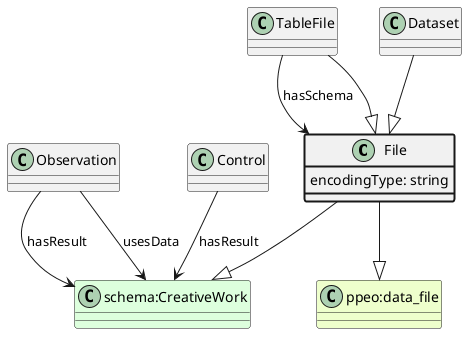
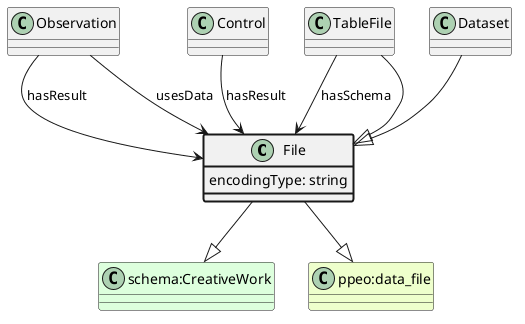
Use APPN File

diff --git a/appn-schema.html b/appn-schema.html
@@ -130,9 +130,7 @@
         <h3>Properties</h3>
         <div class="property" id="madeByController">Control <b>madeByController</b> <a href="#Controller">Controller</a></div>
         <div class="description">Identifies the entity (Controller, i.e. one of a Person, Actuator, SoftwareApplication or ExternalEvent) responsible for carrying out a Control or Treatment.<br/><b>Superproperties</b>:<br/>&nbsp;&nbsp;&nbsp;&nbsp;<a href="http://www.w3.org/ns/sosa/madeByActuator">http://www.w3.org/ns/sosa/madeByActuator</a></div>
-        <div class="property" id="hasResult">Control <b>hasResult</b> <a href="http://schema.org/Dataset">http://schema.org/Dataset</a></div>
-        <div class="description">Identifies a data output from an Observation or Control assay. Individual values are represented by appn:hasSimpleResult.<br/><b>Superproperties</b>:<br/>&nbsp;&nbsp;&nbsp;&nbsp;<a href="http://www.w3.org/ns/sosa/hasResult">http://www.w3.org/ns/sosa/hasResult</a></div>
-        <div class="property">Control <b>hasResult</b> <a href="http://schema.org/CreativeWork">http://schema.org/CreativeWork</a></div>
+        <div class="property" id="hasResult">Control <b>hasResult</b> <a href="#File">File</a></div>
         <div class="description">Identifies a data output from an Observation or Control assay. Individual values are represented by appn:hasSimpleResult.<br/><b>Superproperties</b>:<br/>&nbsp;&nbsp;&nbsp;&nbsp;<a href="http://www.w3.org/ns/sosa/hasResult">http://www.w3.org/ns/sosa/hasResult</a></div>
         <div class="property" id="hasSimpleResult">Control <b>hasSimpleResult</b> <a href="http://www.w3.org/2001/XMLSchema#string">http://www.w3.org/2001/XMLSchema#string</a></div>
         <div class="description">Identifies a discrete value received as a data output from an Observation or Control assay.<br/><b>Superproperties</b>:<br/>&nbsp;&nbsp;&nbsp;&nbsp;<a href="http://www.w3.org/ns/sosa/hasSimpleResult">http://www.w3.org/ns/sosa/hasSimpleResult</a></div>
@@ -224,6 +222,12 @@
         <div class="parent"><a href="http://schema.org/CreativeWork">http://schema.org/CreativeWork</a></div>
         <div class="parent"><a href="http://purl.org/ppeo/PPEO.owl#data_file">http://purl.org/ppeo/PPEO.owl#data_file</a></div>
         <h3>Properties</h3>
+        <div class="property"><a href="#Observation">Observation</a> <b>hasResult</b> File</div>
+        <div class="description">Identifies a data output from an Observation or Control assay. Individual values are represented by appn:hasSimpleResult.<br/><b>Superproperties</b>:<br/>&nbsp;&nbsp;&nbsp;&nbsp;<a href="http://www.w3.org/ns/sosa/hasResult">http://www.w3.org/ns/sosa/hasResult</a></div>
+        <div class="property"><a href="#Control">Control</a> <b>hasResult</b> File</div>
+        <div class="description">Identifies a data output from an Observation or Control assay. Individual values are represented by appn:hasSimpleResult.<br/><b>Superproperties</b>:<br/>&nbsp;&nbsp;&nbsp;&nbsp;<a href="http://www.w3.org/ns/sosa/hasResult">http://www.w3.org/ns/sosa/hasResult</a></div>
+        <div class="property"><a href="#Observation">Observation</a> <b>usesData</b> File</div>
+        <div class="description">Identifies a data input to an Observation assay. This is intended for use in relation to Observations delivered using a SoftwareApplication.</div>
         <div class="property" id="encodingType">File <b>encodingType</b> <a href="http://www.w3.org/2001/XMLSchema#string">http://www.w3.org/2001/XMLSchema#string</a></div>
         <div class="description">File encoding type from IANA https://www.iana.org/assignments/media-types<br/><b>Superproperties</b>:<br/>&nbsp;&nbsp;&nbsp;&nbsp;<a href="http://schema.org/encodingType">http://schema.org/encodingType</a></div>
         <div class="property"><a href="#TableFile">TableFile</a> <b>hasSchema</b> File</div>
@@ -328,9 +332,7 @@
         <h3>Properties</h3>
         <div class="property" id="madeByObserver">Observation <b>madeByObserver</b> <a href="#Observer">Observer</a></div>
         <div class="description">Identifies the entity (Observer, i.e. one of a Person, Sensor or SoftwareApplication) responsible for carrying out an Observation.<br/><b>Superproperties</b>:<br/>&nbsp;&nbsp;&nbsp;&nbsp;<a href="http://www.w3.org/ns/sosa/madeByObserver">http://www.w3.org/ns/sosa/madeByObserver</a></div>
-        <div class="property">Observation <b>hasResult</b> <a href="http://schema.org/Dataset">http://schema.org/Dataset</a></div>
-        <div class="description">Identifies a data output from an Observation or Control assay. Individual values are represented by appn:hasSimpleResult.<br/><b>Superproperties</b>:<br/>&nbsp;&nbsp;&nbsp;&nbsp;<a href="http://www.w3.org/ns/sosa/hasResult">http://www.w3.org/ns/sosa/hasResult</a></div>
-        <div class="property">Observation <b>hasResult</b> <a href="http://schema.org/CreativeWork">http://schema.org/CreativeWork</a></div>
+        <div class="property">Observation <b>hasResult</b> <a href="#File">File</a></div>
         <div class="description">Identifies a data output from an Observation or Control assay. Individual values are represented by appn:hasSimpleResult.<br/><b>Superproperties</b>:<br/>&nbsp;&nbsp;&nbsp;&nbsp;<a href="http://www.w3.org/ns/sosa/hasResult">http://www.w3.org/ns/sosa/hasResult</a></div>
         <div class="property">Observation <b>hasSimpleResult</b> <a href="http://www.w3.org/2001/XMLSchema#string">http://www.w3.org/2001/XMLSchema#string</a></div>
         <div class="description">Identifies a discrete value received as a data output from an Observation or Control assay.<br/><b>Superproperties</b>:<br/>&nbsp;&nbsp;&nbsp;&nbsp;<a href="http://www.w3.org/ns/sosa/hasSimpleResult">http://www.w3.org/ns/sosa/hasSimpleResult</a></div>
@@ -342,9 +344,7 @@
         <div class="description">Identifies a discrete value received as a data output from an Observation or Control assay.<br/><b>Superproperties</b>:<br/>&nbsp;&nbsp;&nbsp;&nbsp;<a href="http://www.w3.org/ns/sosa/hasSimpleResult">http://www.w3.org/ns/sosa/hasSimpleResult</a></div>
         <div class="property">Observation <b>hasSimpleResult</b> <a href="http://www.w3.org/2001/XMLSchema#boolean">http://www.w3.org/2001/XMLSchema#boolean</a></div>
         <div class="description">Identifies a discrete value received as a data output from an Observation or Control assay.<br/><b>Superproperties</b>:<br/>&nbsp;&nbsp;&nbsp;&nbsp;<a href="http://www.w3.org/ns/sosa/hasSimpleResult">http://www.w3.org/ns/sosa/hasSimpleResult</a></div>
-        <div class="property" id="usesData">Observation <b>usesData</b> <a href="http://schema.org/Dataset">http://schema.org/Dataset</a></div>
-        <div class="description">Identifies a data input to an Observation assay. This is intended for use in relation to Observations delivered using a SoftwareApplication.</div>
-        <div class="property">Observation <b>usesData</b> <a href="http://schema.org/CreativeWork">http://schema.org/CreativeWork</a></div>
+        <div class="property" id="usesData">Observation <b>usesData</b> <a href="#File">File</a></div>
         <div class="description">Identifies a data input to an Observation assay. This is intended for use in relation to Observations delivered using a SoftwareApplication.</div>
         <div class="property" id="observes">Observation <b>observes</b> <a href="#ObservedVariable">ObservedVariable</a></div>
         <div class="description">Identifies an ObservedVariable controlled by an Observation assay. The Observation records or estimates the state of the ObservationVariable recorded as a value specified in a hasResult or hasSimpleResult property.<br/><b>Superproperties</b>:<br/>&nbsp;&nbsp;&nbsp;&nbsp;<a href="http://purl.org/ppeo/PPEO.owl#hasVariable">http://purl.org/ppeo/PPEO.owl#hasVariable</a><br/>&nbsp;&nbsp;&nbsp;&nbsp;<a href="http://www.w3.org/ns/sosa/observedProperty">http://www.w3.org/ns/sosa/observedProperty</a></div>

diff --git a/docs/appn_Dataset.md b/docs/appn_Dataset.md
@@ -11,19 +11,13 @@ A set of Files and metadata forming a dataset, normally managed as a file system
 * http://purl.org/ppeo/PPEO.owl#data_file
 * http://schema.org/Dataset
 ## Properties
+* [appn:Observation](appn_Observation.md) **appn:hasResult** [appn:File](appn_File.md)
+    * Identifies a data output from an Observation or Control assay. Individual values are represented by appn:hasSimpleResult.
+* [appn:Control](appn_Control.md) **appn:hasResult** [appn:File](appn_File.md)
+    * Identifies a data output from an Observation or Control assay. Individual values are represented by appn:hasSimpleResult.
+* [appn:Observation](appn_Observation.md) **appn:usesData** [appn:File](appn_File.md)
+    * Identifies a data input to an Observation assay. This is intended for use in relation to Observations delivered using a SoftwareApplication.
 * [appn:File](appn_File.md) **appn:encodingType** [xsd:string](http://www.w3.org/2001/XMLSchema#string)
     * File encoding type from IANA https://www.iana.org/assignments/media-types
 * [appn:TableFile](appn_TableFile.md) **appn:hasSchema** [appn:File](appn_File.md)
     * Identifies schema file for a TableFile
-* [appn:Observation](appn_Observation.md) **appn:hasResult** [schema:CreativeWork](http://schema.org/CreativeWork)
-    * Identifies a data output from an Observation or Control assay. Individual values are represented by appn:hasSimpleResult.
-* [appn:Control](appn_Control.md) **appn:hasResult** [schema:CreativeWork](http://schema.org/CreativeWork)
-    * Identifies a data output from an Observation or Control assay. Individual values are represented by appn:hasSimpleResult.
-* [appn:Observation](appn_Observation.md) **appn:usesData** [schema:CreativeWork](http://schema.org/CreativeWork)
-    * Identifies a data input to an Observation assay. This is intended for use in relation to Observations delivered using a SoftwareApplication.
-* [appn:Observation](appn_Observation.md) **appn:hasResult** [schema:Dataset](http://schema.org/Dataset)
-    * Identifies a data output from an Observation or Control assay. Individual values are represented by appn:hasSimpleResult.
-* [appn:Control](appn_Control.md) **appn:hasResult** [schema:Dataset](http://schema.org/Dataset)
-    * Identifies a data output from an Observation or Control assay. Individual values are represented by appn:hasSimpleResult.
-* [appn:Observation](appn_Observation.md) **appn:usesData** [schema:Dataset](http://schema.org/Dataset)
-    * Identifies a data input to an Observation assay. This is intended for use in relation to Observations delivered using a SoftwareApplication.

diff --git a/docs/appn_Observation.md b/docs/appn_Observation.md
@@ -16,9 +16,7 @@ An Assay that observes or measures properties of an ObservationUnit returning re
 ## Properties
 * appn:Observation **appn:madeByObserver** [appn:Observer](appn_Observer.md)
     * Identifies the entity (Observer, i.e. one of a Person, Sensor or SoftwareApplication) responsible for carrying out an Observation.
-* appn:Observation **appn:hasResult** [schema:Dataset](http://schema.org/Dataset)
-    * Identifies a data output from an Observation or Control assay. Individual values are represented by appn:hasSimpleResult.
-* appn:Observation **appn:hasResult** [schema:CreativeWork](http://schema.org/CreativeWork)
+* appn:Observation **appn:hasResult** [appn:File](appn_File.md)
     * Identifies a data output from an Observation or Control assay. Individual values are represented by appn:hasSimpleResult.
 * appn:Observation **appn:hasSimpleResult** [xsd:string](http://www.w3.org/2001/XMLSchema#string)
     * Identifies a discrete value received as a data output from an Observation or Control assay.
@@ -30,9 +28,7 @@ An Assay that observes or measures properties of an ObservationUnit returning re
     * Identifies a discrete value received as a data output from an Observation or Control assay.
 * appn:Observation **appn:hasSimpleResult** [xsd:boolean](http://www.w3.org/2001/XMLSchema#boolean)
     * Identifies a discrete value received as a data output from an Observation or Control assay.
-* appn:Observation **appn:usesData** [schema:Dataset](http://schema.org/Dataset)
-    * Identifies a data input to an Observation assay. This is intended for use in relation to Observations delivered using a SoftwareApplication.
-* appn:Observation **appn:usesData** [schema:CreativeWork](http://schema.org/CreativeWork)
+* appn:Observation **appn:usesData** [appn:File](appn_File.md)
     * Identifies a data input to an Observation assay. This is intended for use in relation to Observations delivered using a SoftwareApplication.
 * appn:Observation **appn:observes** [appn:ObservedVariable](appn_ObservedVariable.md)
     * Identifies an ObservedVariable controlled by an Observation assay. The Observation records or estimates the state of the ObservationVariable recorded as a value specified in a hasResult or hasSimpleResult property.

diff --git a/docs/appn_TableFile.md b/docs/appn_TableFile.md
@@ -16,13 +16,13 @@ A data file containing tabular data in CSV or similar format
     * Identifies schema file for a TableFile
 * appn:TableFile **appn:hasSchema** [xsd:anyURI](http://www.w3.org/2001/XMLSchema#anyURI)
     * Identifies schema file for a TableFile
+* [appn:Observation](appn_Observation.md) **appn:hasResult** [appn:File](appn_File.md)
+    * Identifies a data output from an Observation or Control assay. Individual values are represented by appn:hasSimpleResult.
+* [appn:Control](appn_Control.md) **appn:hasResult** [appn:File](appn_File.md)
+    * Identifies a data output from an Observation or Control assay. Individual values are represented by appn:hasSimpleResult.
+* [appn:Observation](appn_Observation.md) **appn:usesData** [appn:File](appn_File.md)
+    * Identifies a data input to an Observation assay. This is intended for use in relation to Observations delivered using a SoftwareApplication.
 * [appn:File](appn_File.md) **appn:encodingType** [xsd:string](http://www.w3.org/2001/XMLSchema#string)
     * File encoding type from IANA https://www.iana.org/assignments/media-types
 * [appn:TableFile](appn_TableFile.md) **appn:hasSchema** [appn:File](appn_File.md)
     * Identifies schema file for a TableFile
-* [appn:Observation](appn_Observation.md) **appn:hasResult** [schema:CreativeWork](http://schema.org/CreativeWork)
-    * Identifies a data output from an Observation or Control assay. Individual values are represented by appn:hasSimpleResult.
-* [appn:Control](appn_Control.md) **appn:hasResult** [schema:CreativeWork](http://schema.org/CreativeWork)
-    * Identifies a data output from an Observation or Control assay. Individual values are represented by appn:hasSimpleResult.
-* [appn:Observation](appn_Observation.md) **appn:usesData** [schema:CreativeWork](http://schema.org/CreativeWork)
-    * Identifies a data input to an Observation assay. This is intended for use in relation to Observations delivered using a SoftwareApplication.

diff --git a/docs/appn_File.md b/docs/appn_File.md
@@ -9,16 +9,16 @@ A data file, image or other file system object
 * http://schema.org/CreativeWork
 * http://purl.org/ppeo/PPEO.owl#data_file
 ## Properties
+* [appn:Observation](appn_Observation.md) **appn:hasResult** appn:File
+    * Identifies a data output from an Observation or Control assay. Individual values are represented by appn:hasSimpleResult.
+* [appn:Control](appn_Control.md) **appn:hasResult** appn:File
+    * Identifies a data output from an Observation or Control assay. Individual values are represented by appn:hasSimpleResult.
+* [appn:Observation](appn_Observation.md) **appn:usesData** appn:File
+    * Identifies a data input to an Observation assay. This is intended for use in relation to Observations delivered using a SoftwareApplication.
 * appn:File **appn:encodingType** [xsd:string](http://www.w3.org/2001/XMLSchema#string)
     * File encoding type from IANA https://www.iana.org/assignments/media-types
 * [appn:TableFile](appn_TableFile.md) **appn:hasSchema** appn:File
     * Identifies schema file for a TableFile
-* [appn:Observation](appn_Observation.md) **appn:hasResult** [schema:CreativeWork](http://schema.org/CreativeWork)
-    * Identifies a data output from an Observation or Control assay. Individual values are represented by appn:hasSimpleResult.
-* [appn:Control](appn_Control.md) **appn:hasResult** [schema:CreativeWork](http://schema.org/CreativeWork)
-    * Identifies a data output from an Observation or Control assay. Individual values are represented by appn:hasSimpleResult.
-* [appn:Observation](appn_Observation.md) **appn:usesData** [schema:CreativeWork](http://schema.org/CreativeWork)
-    * Identifies a data input to an Observation assay. This is intended for use in relation to Observations delivered using a SoftwareApplication.
 ## Subclasses
 * [https://schema.plantphenomics.org.au/TableFile](appn_TableFile.md)
 * [https://schema.plantphenomics.org.au/Dataset](appn_Dataset.md)

diff --git a/docs/appn_Control.md b/docs/appn_Control.md
@@ -14,9 +14,7 @@ An Assay that modifies a property of an ObservationUnit.
 ## Properties
 * appn:Control **appn:madeByController** [appn:Controller](appn_Controller.md)
     * Identifies the entity (Controller, i.e. one of a Person, Actuator, SoftwareApplication or ExternalEvent) responsible for carrying out a Control or Treatment.
-* appn:Control **appn:hasResult** [schema:Dataset](http://schema.org/Dataset)
-    * Identifies a data output from an Observation or Control assay. Individual values are represented by appn:hasSimpleResult.
-* appn:Control **appn:hasResult** [schema:CreativeWork](http://schema.org/CreativeWork)
+* appn:Control **appn:hasResult** [appn:File](appn_File.md)
     * Identifies a data output from an Observation or Control assay. Individual values are represented by appn:hasSimpleResult.
 * appn:Control **appn:hasSimpleResult** [xsd:string](http://www.w3.org/2001/XMLSchema#string)
     * Identifies a discrete value received as a data output from an Observation or Control assay.
